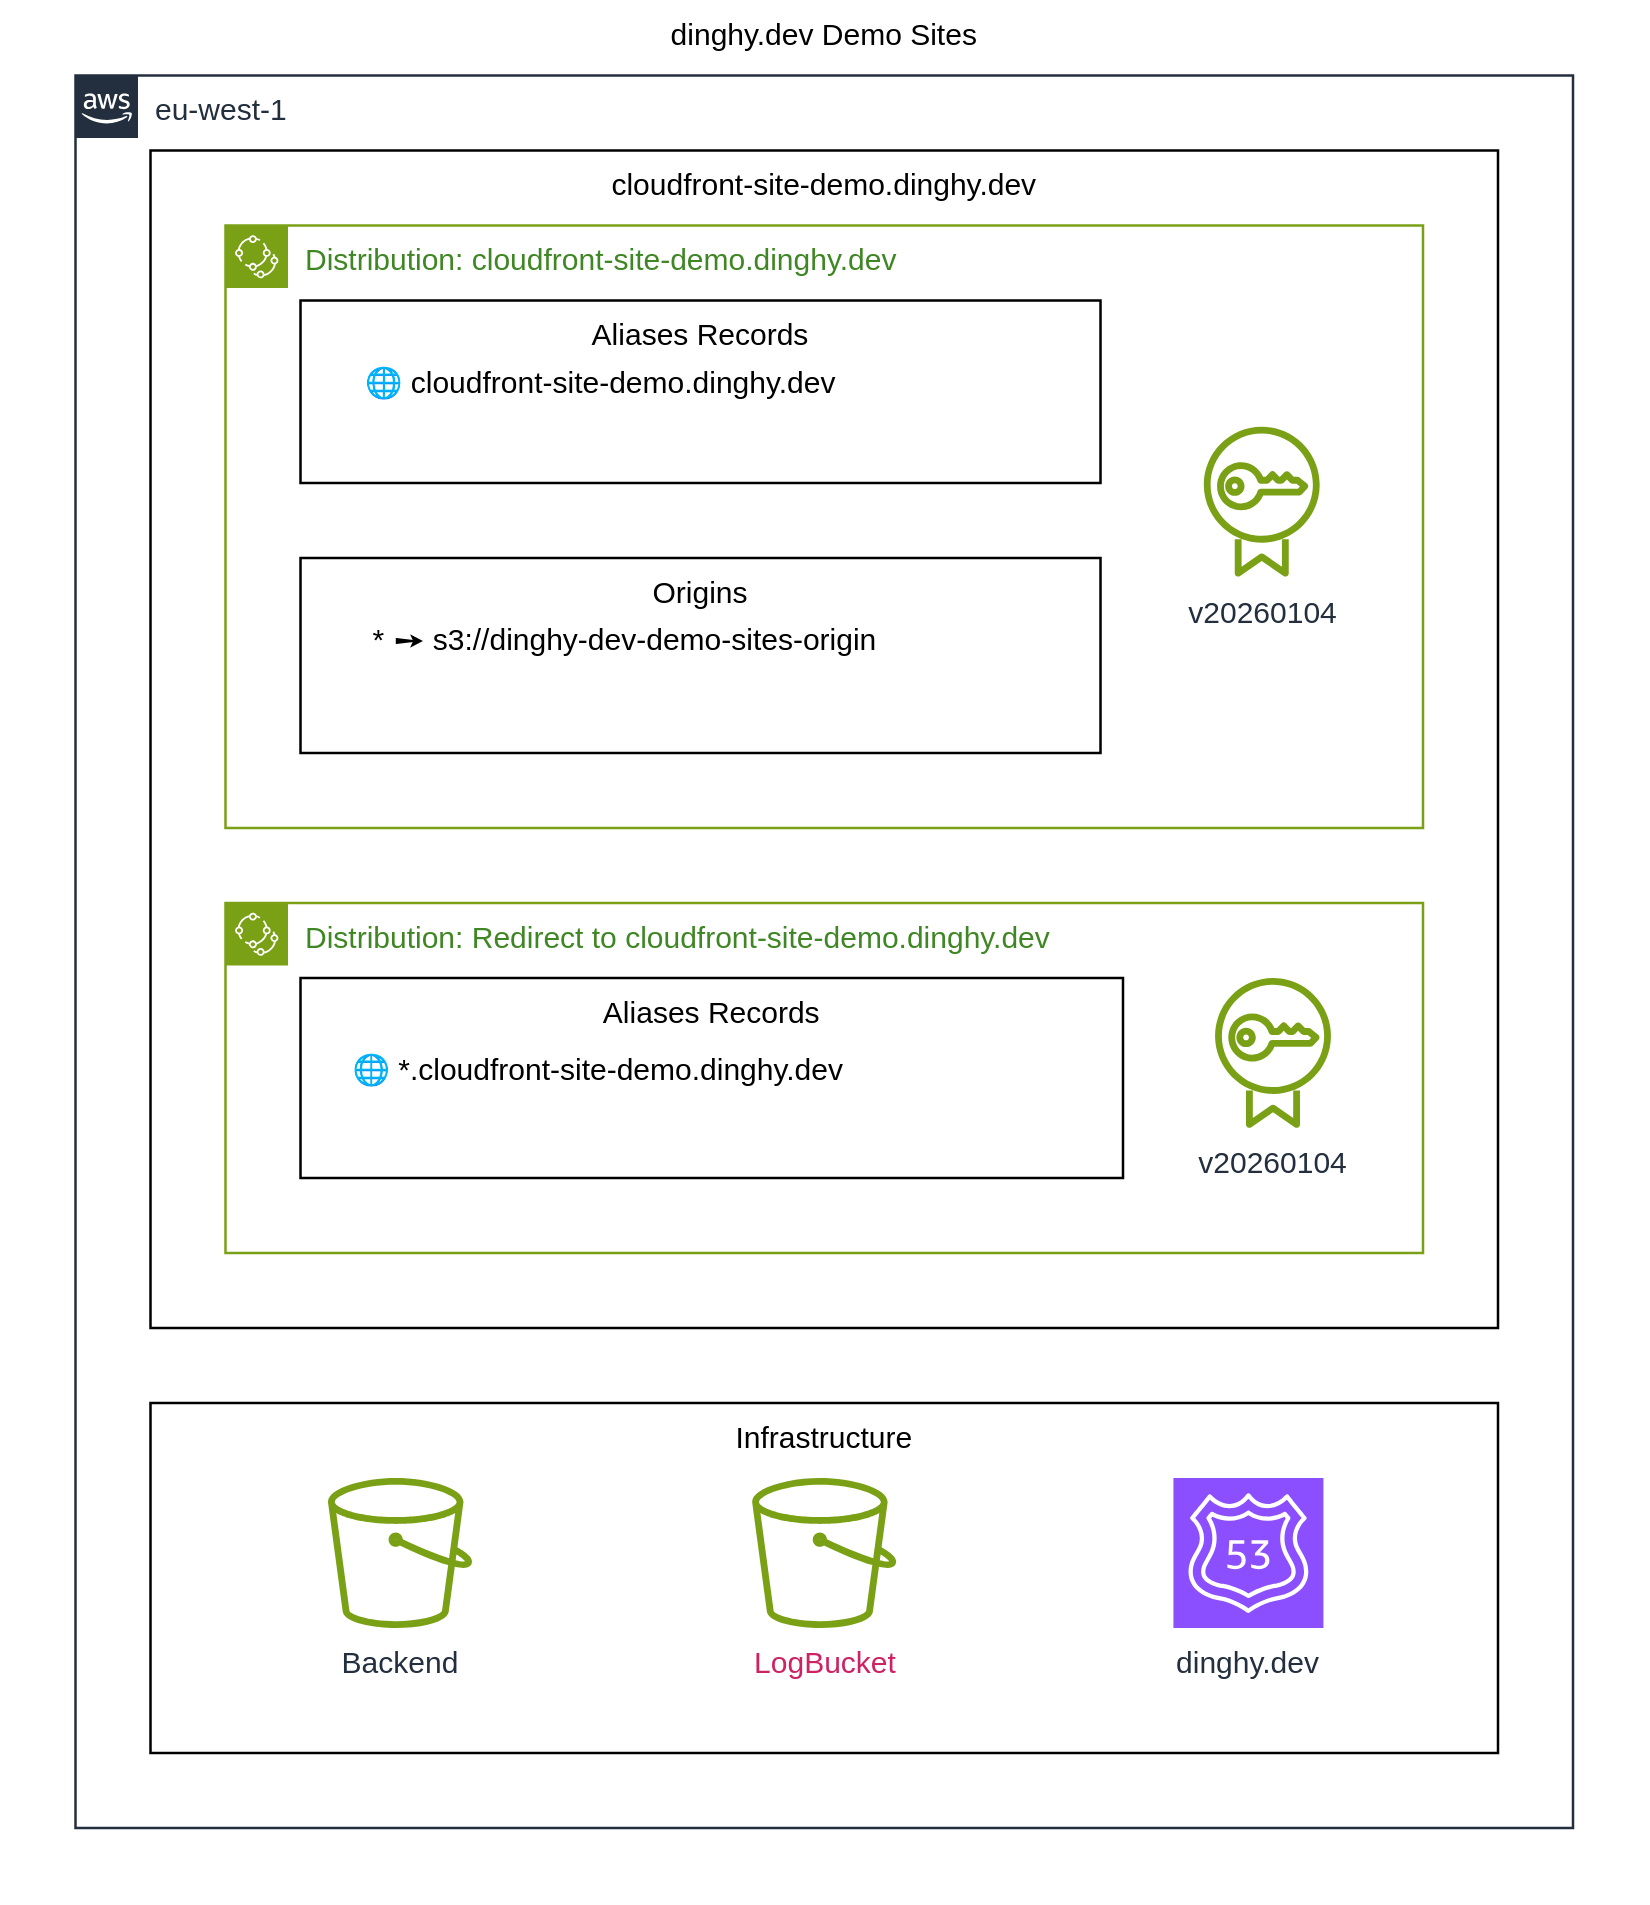
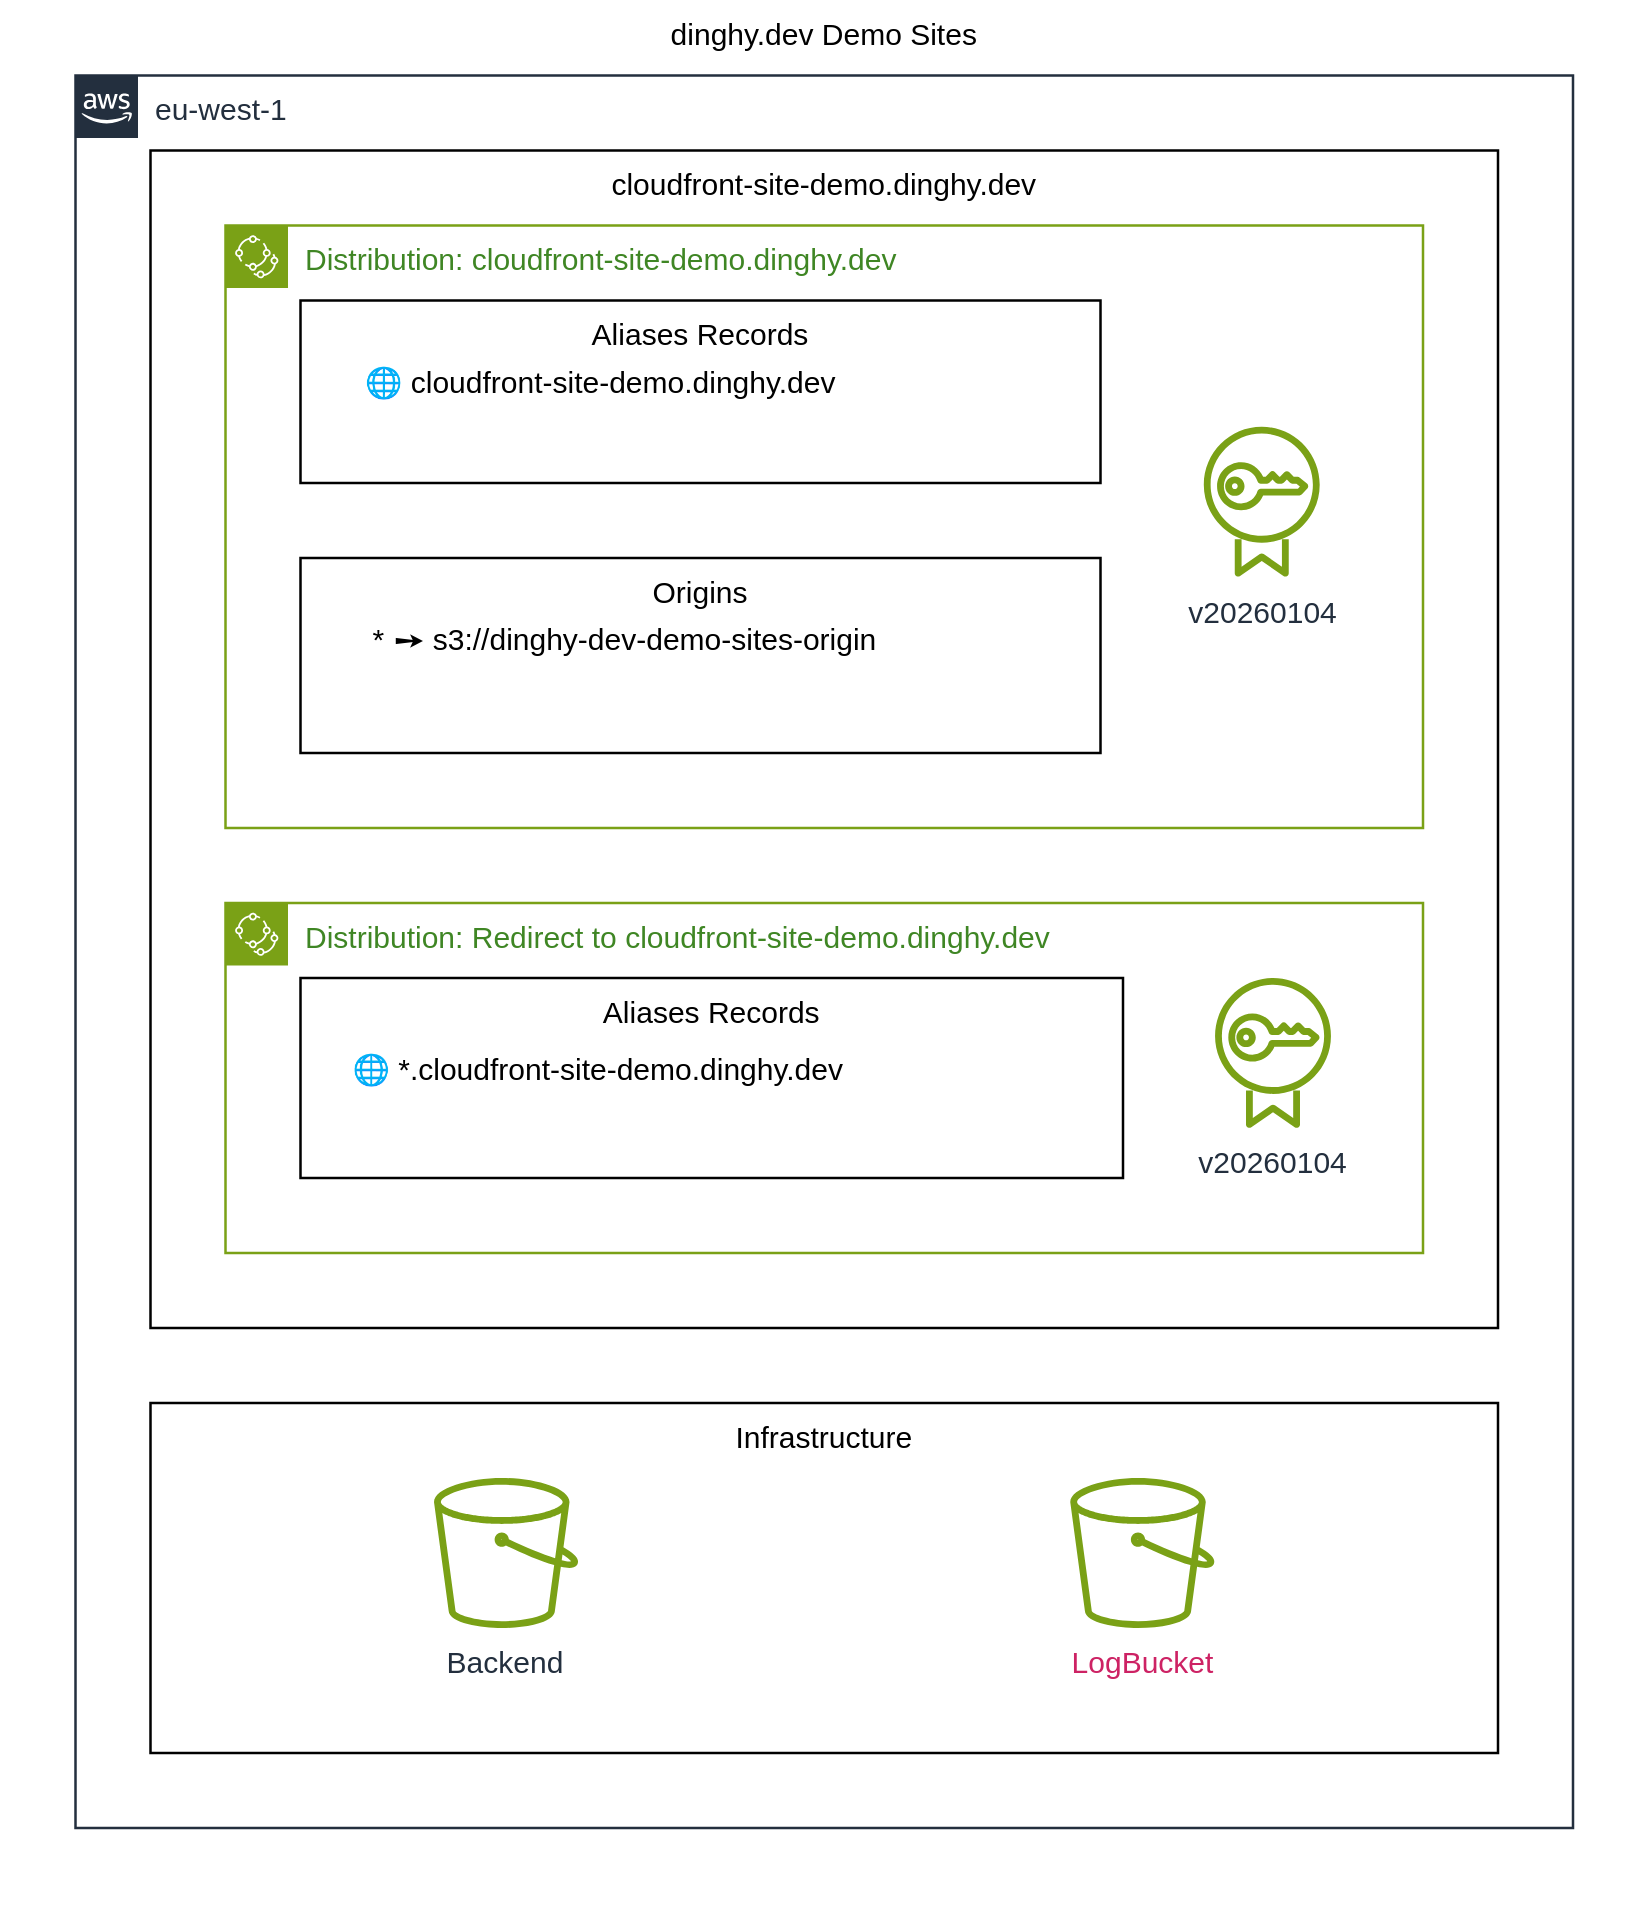
Upgrade to support create Route53Zone

Changed region(s): [[0.6491, 0.7743, 0.8036, 0.8982], [0.1855, 0.7743, 0.34, 0.8982], [0.4327, 0.7743, 0.5564, 0.8982]]

diff --git a/dinghy-dev-demo-sites.tsx b/dinghy-dev-demo-sites.tsx
@@ -1,9 +1,8 @@
-import { MoveToHere } from '@dinghy/base-components'
 import { AwsStack } from '@dinghy/tf-aws'
 import { CloudfrontSites } from '@dinghy/tf-aws/cloudfront'
 
 export default () => (
-  <AwsStack infrastructure={<MoveToHere includes='AwsRoute53Zone' />}>
+  <AwsStack>
     <CloudfrontSites />
   </AwsStack>
 )
